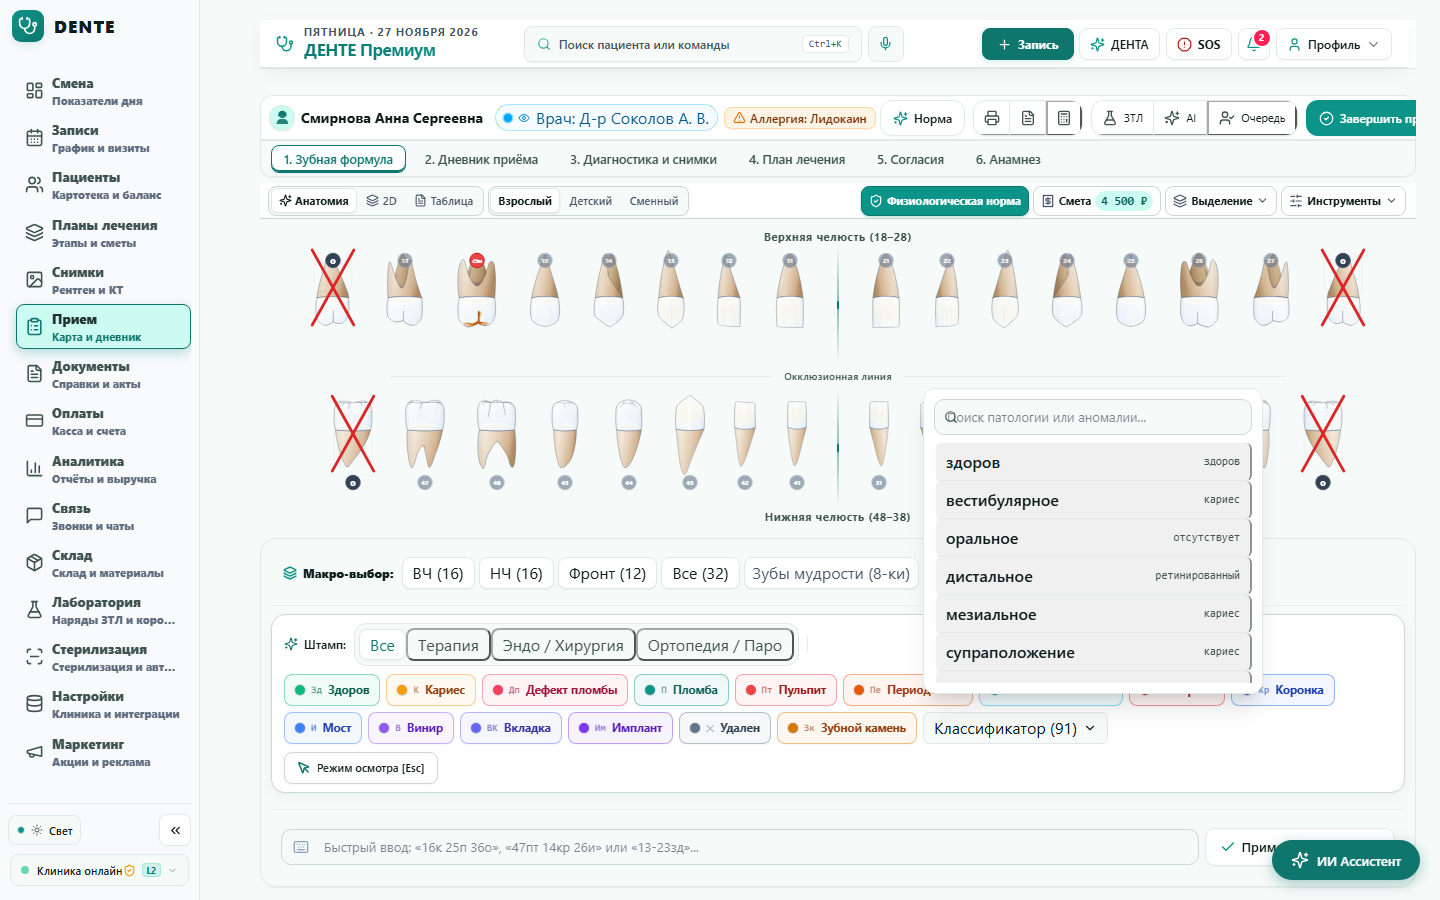
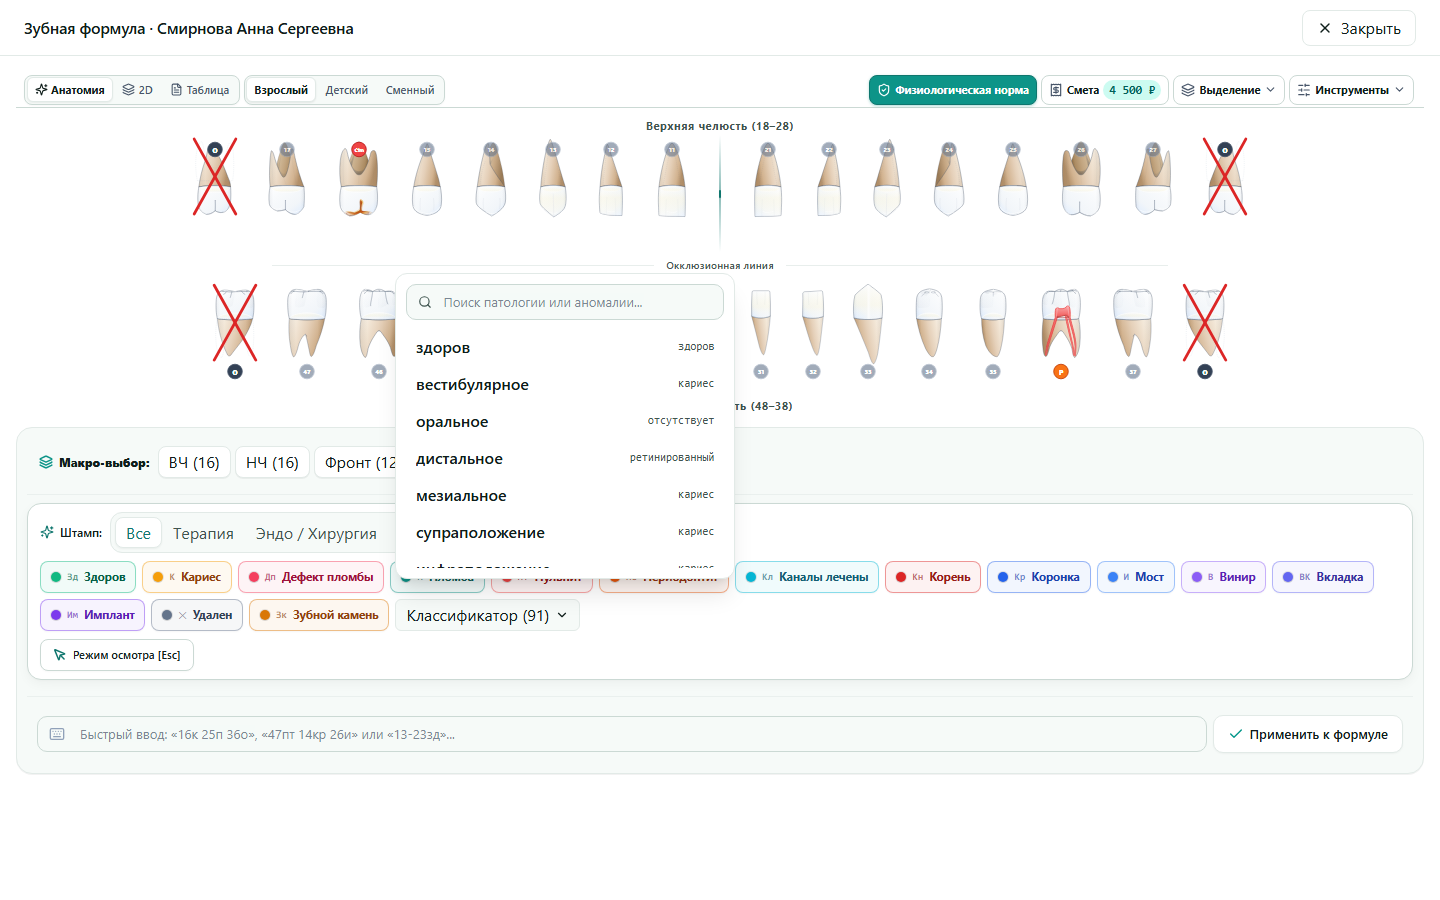
fix(odontogram): polish 91-defect catalog portal styles and attach 4-state live visual proof

diff --git a/apps/web/src/components/odontogram/OdontogramStampPalette.tsx b/apps/web/src/components/odontogram/OdontogramStampPalette.tsx
@@ -333,8 +333,9 @@ export const OdontogramStampPalette: React.FC<OdontogramStampPaletteProps> = Rea
 					setCatalogDefects(mapped);
 				}
 			})
-			.catch(() => {
-				/* Fallback to FALLBACK_CATALOG_DEFECTS / STAMP_OPTIONS when offline or unseeded */
+			.catch((err: unknown) => {
+				if (err instanceof DOMException && err.name === "AbortError") return;
+				logger.warn("[OdontogramStampPalette] Fallback catalog defects used:", err);
 			});
 		return () => controller.abort();
 	}, []);
@@ -451,7 +452,7 @@ export const OdontogramStampPalette: React.FC<OdontogramStampPaletteProps> = Rea
 								className={`px-2.5 py-1 rounded-lg text-xs font-medium transition-all cursor-pointer select-none whitespace-nowrap shrink-0 ${
 									isSelected
 										? "bg-[var(--paper)] text-[var(--primary)] shadow-xs border border-[var(--line-subtle)]"
-										: "text-[var(--ink-muted)] hover:text-[var(--ink)]"
+										: "border border-transparent text-[var(--ink-muted)] hover:text-[var(--ink)]"
 								}`}
 							>
 								{cat.label}
@@ -536,13 +537,13 @@ export const OdontogramStampPalette: React.FC<OdontogramStampPaletteProps> = Rea
 									className="z-[150] rounded-xl border border-[var(--line)] bg-[var(--paper)] shadow-xl p-2.5 space-y-2"
 								>
 									<div className="relative flex items-center">
-										<Search className="w-3.5 h-3.5 text-[var(--ink-muted)] absolute left-2.5 pointer-events-none" />
+										<Search className="w-3.5 h-3.5 text-[var(--ink-muted)] absolute left-3 pointer-events-none" />
 										<input
 											type="text"
 											value={catalogSearch}
 											onChange={(e) => setCatalogSearch(e.target.value)}
 											placeholder="Поиск патологии или аномалии..."
-											className="w-full h-9 pl-8 pr-3 text-sm rounded-lg border border-[var(--line)] bg-[var(--paper)] text-[var(--ink)] focus:outline-none"
+											className="odontogram-catalog-popover__search-input w-full h-9 pl-9 pr-3 text-sm rounded-lg border border-[var(--line)] bg-[var(--paper)] text-[var(--ink)] focus:outline-none"
 										/>
 									</div>
 									<div className="max-h-60 overflow-y-auto divide-y divide-[var(--line-subtle)]">
@@ -564,7 +565,7 @@ export const OdontogramStampPalette: React.FC<OdontogramStampPaletteProps> = Rea
 													setIsCatalogOpen(false);
 													setCatalogSearch("");
 												}}
-												className="w-full px-2.5 py-2 text-left text-xs flex items-center justify-between gap-2 hover:bg-[var(--paper-soft)] text-[var(--ink)] cursor-pointer rounded-md"
+												className="odontogram-catalog-popover__item w-full px-2.5 py-2 text-left text-xs flex items-center justify-between gap-2 bg-transparent border-0 hover:bg-[var(--paper-soft)] text-[var(--ink)] cursor-pointer rounded-md"
 											>
 												<span className="font-medium truncate">{defect.name}</span>
 												<span className="text-[11px] font-mono text-[var(--ink-muted)] shrink-0">

diff --git a/apps/web/src/components/odontogram/odontogramStyles/odontogramToolbarStamps.css b/apps/web/src/components/odontogram/odontogramStyles/odontogramToolbarStamps.css
@@ -484,3 +484,32 @@
 	background: rgba(255, 255, 255, 0.08);
 	border-color: rgba(255, 255, 255, 0.3);
 }
+[data-testid="odontogram-all-defects-popover"] .odontogram-catalog-popover__search-input {
+	padding-left: 2.25rem;
+	padding-right: 0.75rem;
+}
+[data-testid="odontogram-all-defects-popover"] .odontogram-catalog-popover__item {
+	width: 100%;
+	display: flex;
+	align-items: center;
+	justify-content: space-between;
+	gap: 0.5rem;
+	padding: 0.5rem 0.625rem;
+	min-height: 36px;
+	border: 0;
+	background: transparent;
+	text-align: left;
+	border-radius: 0.5rem;
+}
+[data-testid="odontogram-all-defects-popover"] .odontogram-catalog-popover__item:hover {
+	background: var(--paper-soft, #f8fafc);
+}
+:is([data-theme="dark"], html.dark) [data-testid="odontogram-all-defects-popover"] .odontogram-catalog-popover__item:hover {
+	background: rgba(255, 255, 255, 0.08);
+}
+@media (max-width: 820px) {
+	[data-testid="odontogram-all-defects-popover"] .odontogram-catalog-popover__item {
+		min-height: 44px;
+		justify-content: space-between;
+	}
+}
